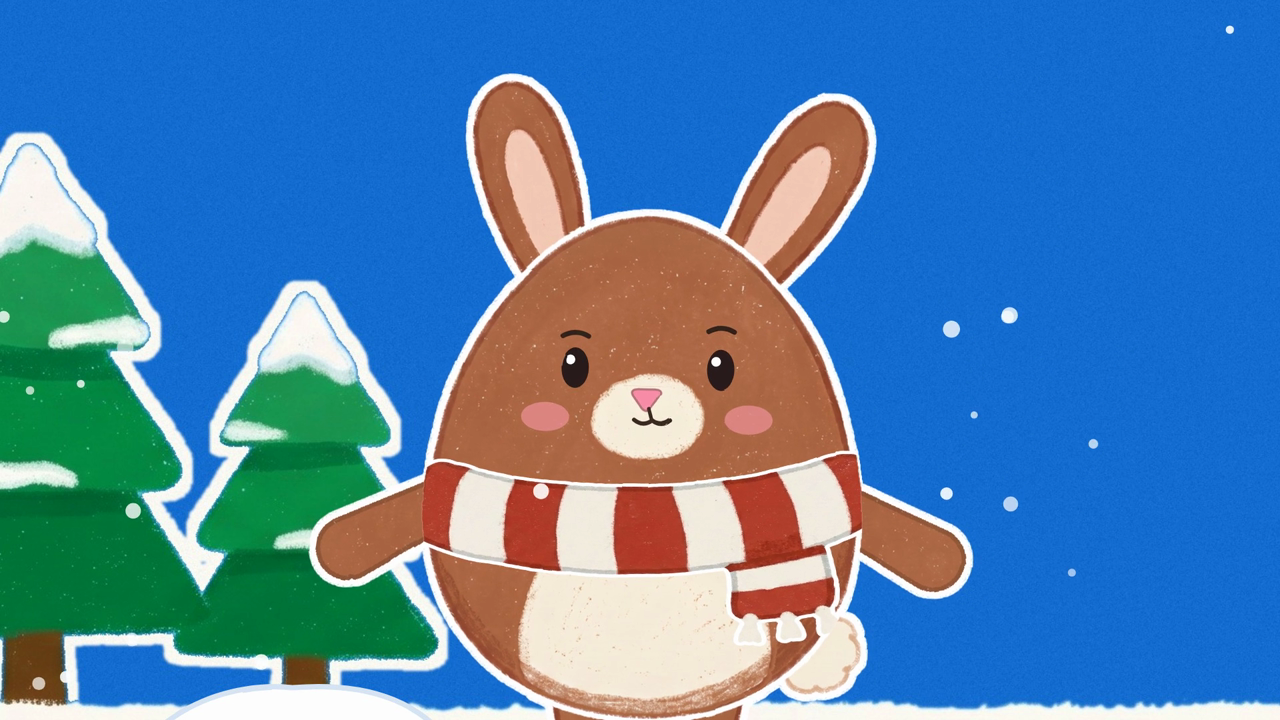
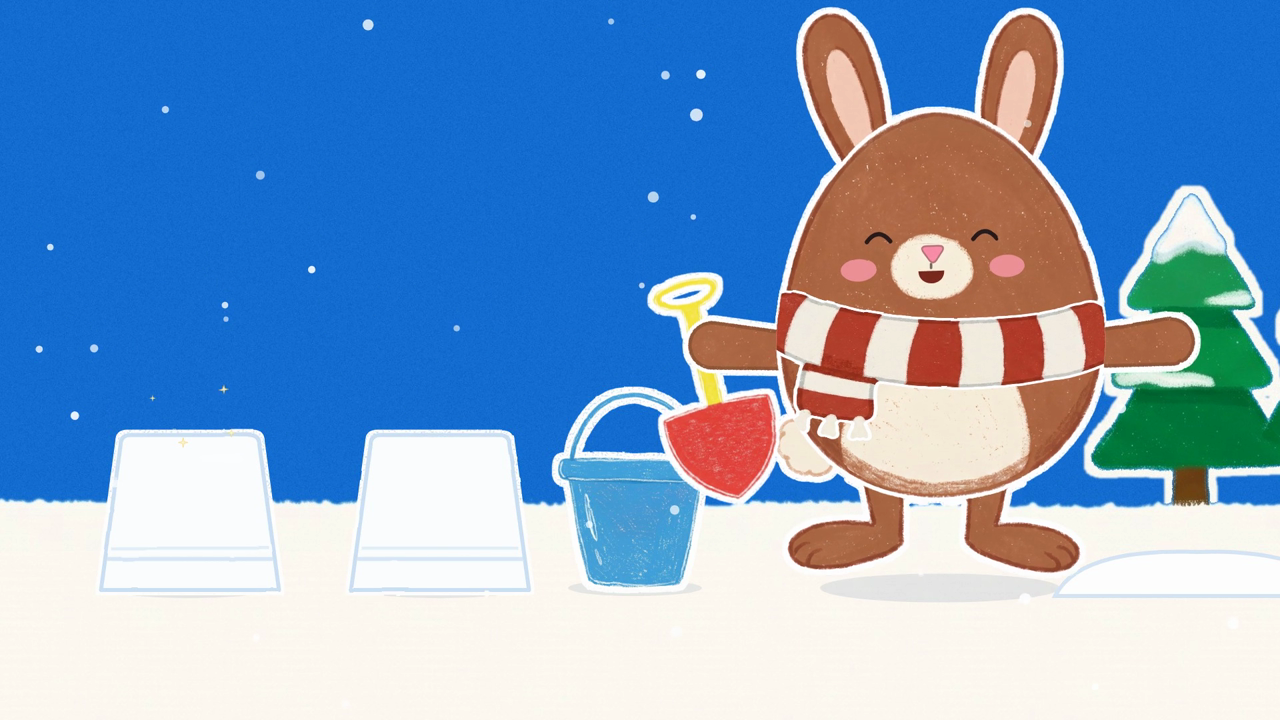
Julkalendern J01–J24: miniatyrer (rader jk-01–24 i miniatyr.html, J19 5:16, J23 spegelvänd vid 1:40), hel-video.sh hittar mastra.sh från vilken mapp som helst, tmp/mastra.txt bort

diff --git a/verktyg/miniatyr.html b/verktyg/miniatyr.html
@@ -82,14 +82,14 @@ const MINIATYRER = [
   { id:'jk-18', ut:'produktion/youtube/shorts/jul/14-bruna-sangen/thumbnail', bild:'avsnitt/007-bruna-ladbilen/thumbnail/miniatyr-utan-text.png', farg:'#C8332B', hjalte:[1.12, 945, 650], jul:{ lucka:18 },
     sv:{ tid:'3:51', titel:['Bruna','sången'], yt:'Lucka 18 🤎 Bruna sången | Lilla Kritans julkalender' } },
   { id:'jk-19', ut:'produktion/youtube/shorts/jul/19-katten-aker-buss/thumbnail', bild:'produktion/youtube/shorts/jul/19-katten-aker-buss/thumbnail/miniatyr-utan-text.png', farg:'#2F7D4A', jul:{ lucka:19 },
-    sv:{ tid:'5:21', titel:['Katten','åker buss'], yt:'Lucka 19 🚌 Katten åker buss | Lilla Kritans julkalender' } },
+    sv:{ tid:'5:16', titel:['Katten','åker buss'], yt:'Lucka 19 🚌 Katten åker buss | Lilla Kritans julkalender' } },
   { id:'jk-20', ut:'produktion/youtube/shorts/jul/17-borsta-borsta-jul/thumbnail', bild:'produktion/youtube/shorts/jul/17-borsta-borsta-jul/thumbnail/miniatyr-utan-text.png', farg:'#C8332B', hjalte:[1.15, 640, 720], jul:{ lucka:20 },   // 038 vid 2:04: pandan borstar
     sv:{ tid:'3:00', titel:['Borsta,','borsta jul'], yt:'Lucka 20 🪥 Borsta, borsta jul | Lilla Kritans julkalender' } },
   { id:'jk-21', ut:'produktion/youtube/shorts/jul/18-rosa-sangen/thumbnail', bild:'avsnitt/019-rosa-favoritfarg/thumbnail/miniatyr-utan-text.png', farg:'#2F7D4A', hjalte:[1.08, 860, 650], jul:{ lucka:21 },
     sv:{ tid:'3:35', titel:['Rosa','sången'], yt:'Lucka 21 💗 Rosa sången | Lilla Kritans julkalender' } },
   { id:'jk-22', ut:'produktion/youtube/shorts/jul/22-musen-pyntar-granen/thumbnail', bild:'avsnitt/034-musen-pyntar-granen/thumbnail/miniatyr-utan-text.png', farg:'#C8332B', jul:{ lucka:22 },
     sv:{ tid:'4:29', titel:['Musen','pyntar granen'], yt:'Lucka 22 🎄 Musen pyntar granen | Lilla Kritans julkalender' } },
-  { id:'jk-23', ut:'produktion/youtube/shorts/jul/23-kaninen-bygger-torn/thumbnail', bild:'produktion/youtube/shorts/jul/23-kaninen-bygger-torn/thumbnail/miniatyr-utan-text.png', farg:'#2F7D4A', jul:{ lucka:23 },   // 050 vid 0:56
+  { id:'jk-23', ut:'produktion/youtube/shorts/jul/23-kaninen-bygger-torn/thumbnail', bild:'produktion/youtube/shorts/jul/23-kaninen-bygger-torn/thumbnail/miniatyr-utan-text.png', farg:'#2F7D4A', hjalte:[1.1, 947, 560], jul:{ lucka:23 },   // 050 vid 1:40, spegelvänd: kaninen skrattar med spaden och hinken
     sv:{ tid:'3:11', titel:['Kaninen','bygger torn'], yt:'Lucka 23 ❄ Kaninen bygger torn | Lilla Kritans julkalender' } },
   { id:'jk-24', ut:'produktion/youtube/shorts/jul/24-bjornen-vaknar-pa-julafton/thumbnail', bild:'produktion/youtube/shorts/jul/24-bjornen-vaknar-pa-julafton/thumbnail/miniatyr-utan-text.png', farg:'#C8332B', hjalte:[1.1, 747, 613], jul:{ lucka:24 },   // 051 vid 2:54, spegelvänd
     sv:{ tid:'4:05', titel:['Leoparden','vaknar'], yt:'Lucka 24 🎁 Leoparden vaknar på julafton | Lilla Kritans julkalender' } },
